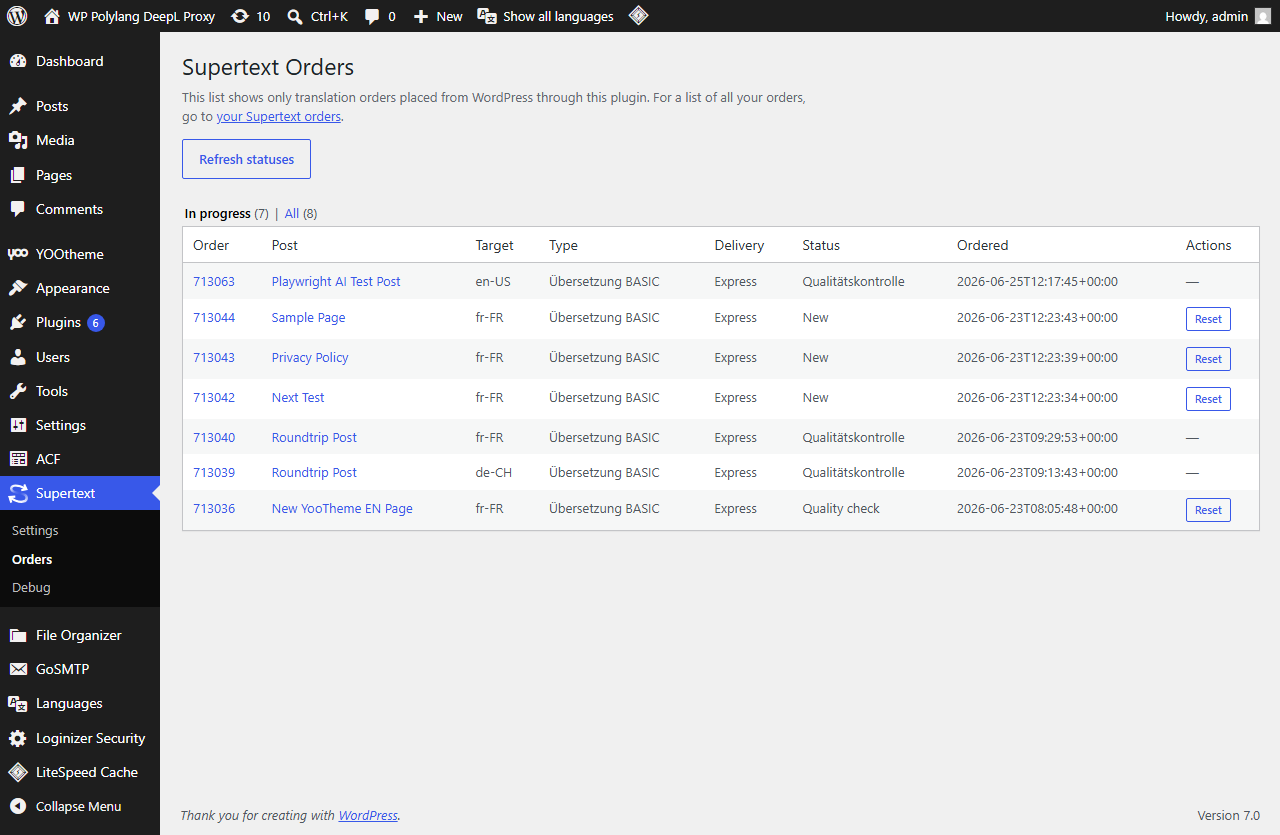
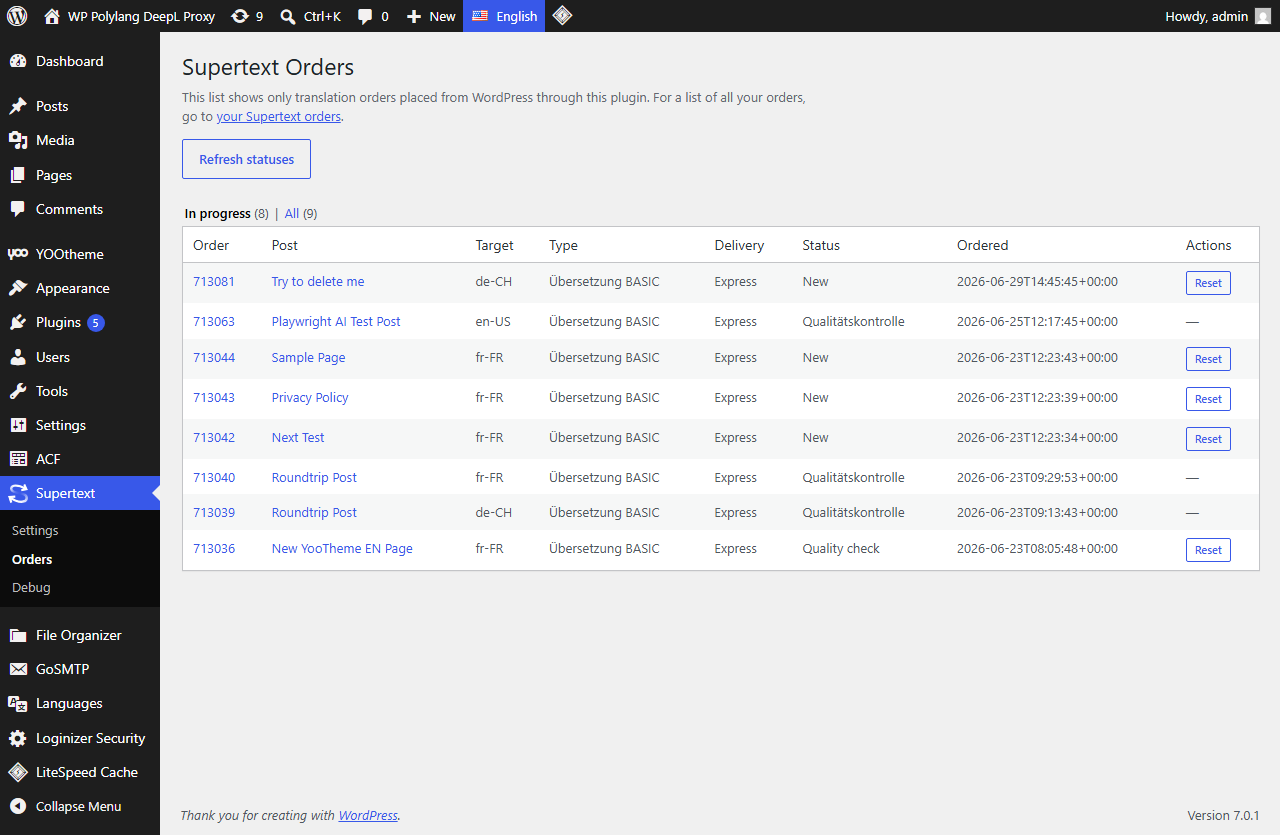
Add Tools menu with read-only ACF field translation overview

diff --git a/includes/Admin/Tools_Page.php b/includes/Admin/Tools_Page.php
@@ -1,0 +1,210 @@
+<?php
+/**
+ * @package Supertext_Polylang
+ */
+
+namespace Supertext\Polylang\Admin;
+
+defined( 'ABSPATH' ) || exit;
+
+/**
+ * "Tools" submenu under Supertext.
+ *
+ * First tool: a list of every ACF field with its Polylang translation setting
+ * (Translate / Translate Once / Copy Once / Synchronize / Ignore), so you can see
+ * at a glance which fields are translated. Read-only for now.
+ *
+ * @since 0.3.0
+ */
+class Tools_Page {
+	/**
+	 * Submenu slug.
+	 *
+	 * @var string
+	 */
+	const SLUG = 'supertext-polylang-tools';
+
+	/**
+	 * Registers hooks.
+	 *
+	 * @return void
+	 */
+	public static function init(): void {
+		add_action( 'admin_menu', array( self::class, 'register_menu' ), 11 );
+	}
+
+	/**
+	 * Registers the submenu (after Orders).
+	 *
+	 * @return void
+	 */
+	public static function register_menu(): void {
+		add_submenu_page(
+			Page::SLUG,
+			__( 'Tools', 'supertext-polylang' ),
+			__( 'Tools', 'supertext-polylang' ),
+			'manage_options',
+			self::SLUG,
+			array( self::class, 'render' )
+		);
+	}
+
+	/**
+	 * Renders the Tools page (currently the ACF fields overview).
+	 *
+	 * @return void
+	 */
+	public static function render(): void {
+		if ( ! current_user_can( 'manage_options' ) ) {
+			return;
+		}
+		?>
+		<div class="wrap">
+			<h1><?php esc_html_e( 'Supertext Tools', 'supertext-polylang' ); ?></h1>
+
+			<h2><?php esc_html_e( 'ACF fields', 'supertext-polylang' ); ?></h2>
+			<?php self::render_acf_fields(); ?>
+		</div>
+		<?php
+	}
+
+	/**
+	 * Lists every ACF field and its Polylang translation setting.
+	 *
+	 * @return void
+	 */
+	private static function render_acf_fields(): void {
+		if ( ! function_exists( 'acf_get_field_groups' ) || ! function_exists( 'acf_get_fields' ) ) {
+			printf(
+				'<p>%s</p>',
+				esc_html__( 'Advanced Custom Fields is not active, so there are no ACF fields to show.', 'supertext-polylang' )
+			);
+			return;
+		}
+
+		$groups = acf_get_field_groups();
+		if ( empty( $groups ) ) {
+			printf( '<p>%s</p>', esc_html__( 'No ACF field groups found.', 'supertext-polylang' ) );
+			return;
+		}
+		?>
+		<p class="description" style="max-width:720px;">
+			<?php esc_html_e( 'Translation setting per ACF field, as configured for Polylang. “Translate” / “Translate once” fields are sent for translation; “Copy”, “Synchronize” and “Ignore” fields are not. Set this in the ACF field group editor (each field’s “Translation” option).', 'supertext-polylang' ); ?>
+		</p>
+		<table class="widefat striped" style="max-width:960px;">
+			<thead>
+				<tr>
+					<th><?php esc_html_e( 'Field group', 'supertext-polylang' ); ?></th>
+					<th><?php esc_html_e( 'Field', 'supertext-polylang' ); ?></th>
+					<th><?php esc_html_e( 'Name', 'supertext-polylang' ); ?></th>
+					<th><?php esc_html_e( 'Type', 'supertext-polylang' ); ?></th>
+					<th><?php esc_html_e( 'Translatable', 'supertext-polylang' ); ?></th>
+					<th><?php esc_html_e( 'Setting', 'supertext-polylang' ); ?></th>
+				</tr>
+			</thead>
+			<tbody>
+				<?php
+				foreach ( $groups as $group ) {
+					$fields = acf_get_fields( $group['key'] );
+					if ( empty( $fields ) ) {
+						continue;
+					}
+					self::render_field_rows( $fields, (string) $group['title'] );
+				}
+				?>
+			</tbody>
+		</table>
+		<?php
+	}
+
+	/**
+	 * Renders table rows for a set of ACF fields, recursing into sub fields.
+	 *
+	 * @param array  $fields      ACF field definitions.
+	 * @param string $group_title Owning field group title.
+	 * @param int    $depth       Nesting depth (for indenting sub fields).
+	 * @return void
+	 */
+	private static function render_field_rows( array $fields, string $group_title, int $depth = 0 ): void {
+		foreach ( $fields as $field ) {
+			if ( ! is_array( $field ) ) {
+				continue;
+			}
+
+			$setting     = self::translation_setting( $field );
+			$translatable = self::is_translatable( $setting['value'] );
+			$indent      = str_repeat( '— ', max( 0, $depth ) );
+			?>
+			<tr>
+				<td><?php echo esc_html( 0 === $depth ? $group_title : '' ); ?></td>
+				<td><?php echo esc_html( $indent . (string) ( $field['label'] ?? '' ) ); ?></td>
+				<td><code><?php echo esc_html( (string) ( $field['name'] ?? '' ) ); ?></code></td>
+				<td><?php echo esc_html( (string) ( $field['type'] ?? '' ) ); ?></td>
+				<td>
+					<?php if ( null === $setting['value'] ) : ?>
+						<span style="color:#787c82;">—</span>
+					<?php elseif ( $translatable ) : ?>
+						<span style="color:#00a32a;font-weight:600;">&#10003; <?php esc_html_e( 'Yes', 'supertext-polylang' ); ?></span>
+					<?php else : ?>
+						<span style="color:#d63638;">&#10007; <?php esc_html_e( 'No', 'supertext-polylang' ); ?></span>
+					<?php endif; ?>
+				</td>
+				<td>
+					<?php echo esc_html( null === $setting['value'] ? '' : (string) $setting['value'] ); ?>
+					<?php if ( '' !== $setting['key'] ) : ?>
+						<code style="color:#787c82;font-size:11px;">(<?php echo esc_html( $setting['key'] ); ?>)</code>
+					<?php endif; ?>
+				</td>
+			</tr>
+			<?php
+			// Recurse into container fields (repeater / group / flexible content layouts).
+			if ( ! empty( $field['sub_fields'] ) && is_array( $field['sub_fields'] ) ) {
+				self::render_field_rows( $field['sub_fields'], $group_title, $depth + 1 );
+			}
+			if ( ! empty( $field['layouts'] ) && is_array( $field['layouts'] ) ) {
+				foreach ( $field['layouts'] as $layout ) {
+					if ( ! empty( $layout['sub_fields'] ) && is_array( $layout['sub_fields'] ) ) {
+						self::render_field_rows( $layout['sub_fields'], $group_title, $depth + 1 );
+					}
+				}
+			}
+		}
+	}
+
+	/**
+	 * Finds the Polylang translation setting stored on an ACF field.
+	 *
+	 * The exact key varies by Polylang version, so we probe the known candidates and
+	 * then fall back to any field key that looks Polylang-related. Returns the key it
+	 * was read from (for confirmation) and the raw value (null if none found).
+	 *
+	 * @param array $field ACF field definition.
+	 * @return array{key: string, value: string|null}
+	 */
+	private static function translation_setting( array $field ): array {
+		$candidates = array( 'translations', 'pll_translations', 'polylang_translations', 'pll_copy' );
+		foreach ( $candidates as $key ) {
+			if ( isset( $field[ $key ] ) && is_scalar( $field[ $key ] ) ) {
+				return array( 'key' => $key, 'value' => (string) $field[ $key ] );
+			}
+		}
+
+		foreach ( $field as $key => $value ) {
+			if ( is_scalar( $value ) && preg_match( '/pll|polylang/i', (string) $key ) ) {
+				return array( 'key' => (string) $key, 'value' => (string) $value );
+			}
+		}
+
+		return array( 'key' => '', 'value' => null );
+	}
+
+	/**
+	 * Interprets a Polylang ACF setting value as translatable or not.
+	 *
+	 * @param string|null $value Raw setting value.
+	 * @return bool
+	 */
+	private static function is_translatable( $value ): bool {
+		return is_string( $value ) && false !== stripos( $value, 'translate' );
+	}
+}

diff --git a/supertext-polylang.php b/supertext-polylang.php
@@ -3,7 +3,7 @@
  * Plugin Name:       Supertext for Polylang
  * Plugin URI:        https://github.com/Supertext/supertext-wordpress-polylang
  * Description:       Adds Supertext as a native machine-translation and human translation service in Polylang Pro.
- * Version:           0.2.3
+ * Version:           0.2.4
  * Requires PHP:      8.1
  * Author:            Supertext
  * Author URI:        https://www.supertext.com
@@ -15,7 +15,7 @@
 
 defined( 'ABSPATH' ) || exit;
 
-define( 'SUPERTEXT_POLYLANG_VERSION', '0.2.3' );
+define( 'SUPERTEXT_POLYLANG_VERSION', '0.2.4' );
 define( 'SUPERTEXT_POLYLANG_FILE', __FILE__ );
 define( 'SUPERTEXT_POLYLANG_DIR', plugin_dir_path( __FILE__ ) );
 
@@ -89,6 +89,9 @@ add_filter(
 
 // Register the "Orders" submenu (list / refresh / cancel human-translation orders).
 \Supertext\Polylang\Admin\Orders_Page::init();
+
+// Register the "Tools" submenu (ACF field translation overview, …).
+\Supertext\Polylang\Admin\Tools_Page::init();
 
 // Add the "Supertext AI/Human Translation" bulk actions to the posts list table.
 \Supertext\Polylang\Admin\Bulk_Actions::init();